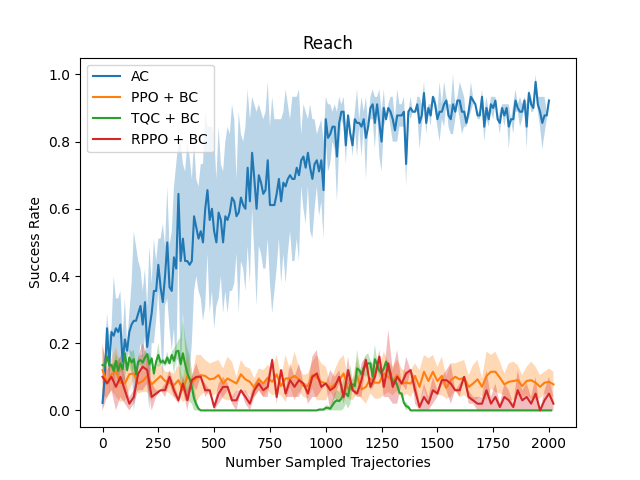
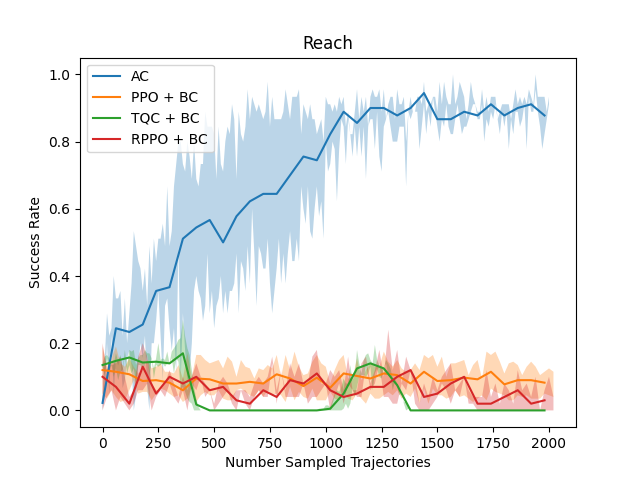
experiments

Changed region(s): [[0.1562, 0.1875, 0.875, 0.875]]

diff --git a/chapters/Experiments.tex b/chapters/Experiments.tex
@@ -104,38 +104,71 @@ is in a state that it has not seen before and acts slightly different to the exp
 different then the training distribution, thus it starts to act unpredictable. As argued in section \ref{COD_AC} this is an advantage of our policy, as it 
 does not break the i.i.d. assumption.
 
-\section{Meta World}
-The Meta World benchmark is a challenging robot simulation benchmark...
+\section{Reinforcement Learning from Sparse Rewads in Single Observation Environments}
+In this section we will explore the perforance of the AC algorithm given sparse rewards from trajectories together with expert demonstrations. We find this to be 
+a plausible setting, as sparse rewards are typically easy to define even in real world applications or sparse reward from human feedback could be used. It is well 
+discussed that reward shaping is tedious and can lead to sub optimal perforance. As an example, imagine an automated production line, where a robot conducts a 
+fast correction step, like cutting away bad parts of food, with high speed, based on an image of the object. A human could easily provide the feedback of wether 
+the object is in the intendet state after the operation. It would be vastly more effort to provide a reward signal for every step along the trajectory and it is 
+not trivial to do so in a way that is helpful for the learning algorithm. Another application are natural language models. Resent efforts have been made to tune 
+models according to humane preferences from a pretrained initialisation. Language models don't get any observations from the environment, as the initial 
+observation is the input from the user and the current environment state is the generated text, which is fully determined by the actions, or words, of the model. 
+In this sense, it is comparable to our setup. We will focus on dense action and observation spaces however and leave further investigation of discrete spaces to future work. 
+In addition to the practical relevance of the setting, an advantage is that the planning part of our algorithm is most efficient in single observation settings. 
+We discussed this in section \ref{sec:AC_Critic}, where we state that while predicting the MDP has a quadratic error bound, we don't get any updated information 
+during the trajectory and thus no better estimate is possible. \\
 
-We want to test two aspects of our algorithm
--fine tuning
--reinforcement learning
+We chose environments from the "Meta-World" \ref{yu2019meta} benchmark, as they have a success indication per environment, from which sparse rewards can be defined naturally. 
+Specifically, we chose five environments from the ML10 suite, namely "Pick and Place", "Push", "Reach", "Window Open" and "Drawer Close", which represent a variaty 
+of tasks and differently levels suited to test different aspects of our algorithm. We defined a constant sequence length of 100 steps per trajectory and provided 
+a reward at the end according to wether the environment was solved at any step along the trajectory. Additionally, the environment 
+only returns the initial observation along the trajectory.\\
 
-RPPO TQC PPO fine tuning, positional encoding, reasons why they were chosen.
-We tested our algorithm on four environments from the Meta-World benchmark with variying complexity. 
+The single observation setup is not well studied in continues spaces, so we have to find baselines that are best suited to challenge the perforance of our algorithm. For sparse rewards, a common 
+algorithm is "HER" as discussed in section \ref{sec:HER}, but it assumes a way to compute the goal from an enviroment state. This is not suitable in our setup, as we don't have access to enviroment 
+states after the first state. Moreover, this assumption limits the generality of the approach, which AC does not need to. \\
+We use PPO, a state of the art on 
+policy algorithm, and TQC, a state of the art off policy algorithm, together with transformer style sequential encoding to indicate the timestep. We also include 
+RPPO, a recurrent implementation of PPO, where we repeatedly input the initial observation and use the hidden states to encode the position along the action sequence. 
 PPO, TQC and RPPO were pretrained unsing behavioural cloning. We chose the best performing policy during behavioural cloning by testing the policy on 50 test 
 trajectories every 400 full cycles through the 
-expert transitions. Technically, these test trajectories were environment interactions, but we chose not to count them to give the best case comparison to the AC algorithm, which was not pretrained. 
+expert transitions. Technically, these test trajectories were environment interactions, but we chose not to count them to give the best case comparison to the AC algorithm, which was not pretrained.\\
+
+For the base implementations we use "Stable Baselines3" \ref{stable-baselines3}, which is a common choice, as it provides well implemted algorithms with tested 
+performance and finetuned hyperparameters for a wide range of environments. This includes our chosen environments, but with dense rewards and continuous observations, 
+thus some hyperparameter tuning was necessary. \\
+
+In the following sections, we will test our algorithm in two different settings, namely fine tunning and guided reinforcement learning. In fine tuning, we provide 
+enough expert demonstrations, that the environment can be solved with acceptable performance, but with room for improvement. In guided reinforcement learning, 
+only one expert demonstration is provided. AC will use the same set of hyperparameters for all experiments to showcase its generality and robustness. Also, we had no choice for time constraints. 
+We will use limited finetuning for the baselines, however. 
+With these experiments, we aim to test both exploitation and exploration of our algorithm and show stable 
+behaviour across a wide range of use cases. \\
+
+In all plots, the first datapoint is sampled from the policy before any enviroment interaction. For the plots with behavioural cloning, it indicates learned perforance from expert trajectories. 
+In plots with no provided expert trajectory, it displays the behaviour following random initialisation.
 
 
 \subsection{Fine Tuning}
 \label{sec:fine_tuning}
 In this section we analyze our algorithm in a fine tuning setup. We provided the algorithms with 4 and 15 expert demonstrations per environment and used a relatively short reinforcement learning phase 
-with 400 sampled trajectory consisting of 100 steps each. One problem we wanted to overcome is "catastrophic 
-forgetting" that can occure, when the data distribution shifts. During the imitation phase, the learners only sees positive examples sampled according to the distribution induced by the expert. 
-In the reinforcement learning phase, the learner samples trajectories according to the actor of the learner, thus the distribution shift. Our algorithm is more robust to this problem, as it 
-decouples the generator distribution, namely the distribution induced by the actor, from the training process, as discussed in section \ref{inference_time_planning}. We present our findings in 
+with 400 sampled trajectory consisting of 100 steps each. We repeated each experiment four times with 30 test trajectories per datapoint. One problem we wanted to overcome is "catastrophic 
+forgetting" that can occure, when the data distribution shifts. During the imitation phase, the learners only see positive examples sampled according to the distribution induced by the expert, which leads 
+to overestimation by the critic. Our algorithm is more robust to this problem, as it 
+decouples the actor from the critic, as discussed in section \ref{inference_time_planning}. We present our findings in 
 figure \ref{fig:finetuning}. For the environments "Pick and Place" and "Push" we show the plots 
 for 15 expert demonstrations, as we found 4 expert demonstrations were not enough to meaningfully learn within 400 training episodes. The environments "Reach" and "Window Open" are easier to learn, 
 so we display the experiments with 4 expert demonstrations each, as giving 15 expert demonstrations lead to near pefect performance from imitation learning alone. All plots for all experiments can 
 be found in Appendix \ref{chapter:additional_plots}. 
-We find, that AC is the only algorithm that can meaningfully improve it's perforance given the limited amount of environment interactions. RPPO is a recurrent algorithm and is the most sensitive to hyper parameter tuning. 
-We expected RPPO to be the least performant from our discussion of the curse of dimensionality in section \ref{COD_AC}. The algorithms guided by GAIL did not improve meaningfully. We assume the limited 
-amount of environment interaction was not proficcient to learn a good discriminator and improve the policies. We tried differnt hyper parameter settings, including fine tuned parameters for the 
-environments but for dense rewards and observations from the [hyper parameter ZOO]. We found that the performance was most relient on the learning rate. Too high values lead to catastrophic forgetting. Some cases can be seen in 
-the appendix \ref{chapter:additional_plots}, where we were not able to find suitable hyper parameters. The values we chose were the highest values before pratically no learning took place, however 
-mostly the performance decreased, anyway.
 
+We expected RPPO to be the least performant from our discussion of the curse of dimensionality in section \ref{COD_AC}. As no current input is provided from the enviroment, RPPO has to keep track of 
+all previous actions. PPO and TQC use positional encoding to indicate the current timestep which makes the problem easier. The algorithms guided by GAIL did not improve meaningfully. We assume the limited 
+amount of environment interaction was not proficcient to learn a good discriminator and improve the policies. We found that the performance of the baselines were most relient on the learning rate. 
+Too high values lead to catastrophic forgetting. The values we chose were the highest possible values before catastrophic forgetting took place. However, the perforance from behavioural cloning, indicated 
+by the first datapoint per plot, was mostly the best achievable perforance. PPO tends to do better then TQC in the single observation setup in genral. We expect this is due to the fact that TQCs 
+strength as an off policy algorithm lies in exploration. In our chosen setup, exploration is specifically hard, given no information from the enviroment during the trajectories.\\  
+We find, that AC is the only algorithm that can meaningfully improve it's perforance given the limited amount of environment interactions. We propose this is due to the fact, that catastrophic forgetting 
+is not a problem with AC, as discussed earlier in this section, which makes it specifically suitable for finetuning.
 
 \begin{figure}[htbp]
     \centering
@@ -168,12 +201,12 @@ mostly the performance decreased, anyway.
 
 \subsection{Guided Reinforcement Learning}
 \label{sec:g_ref_ler}
-In this section, we test the perforance of AC given minimal expert guidance. We use the Reach and Winow Open environments with 2000 training epsiodes per run and three runs per experiment and learner. 
-Per data point we sampled 50 trajectories from the test data set. 
+In this section, we test the perforance of AC given minimal expert guidance. We use the "Reach" and "Winow Open" environments with 2000 training epsiodes per run and three runs per experiment and learner. 
+Per data point we sampled 30 trajectories to evaluate the success rate.\\ 
 With this setting, the algorithms must learn most of the behaviour from reinforcement learning, but the expert 
 demonstration is needed to overcome the initial search problem. We only provide sparse reward and one obervsation per trajectory, thus finding the first viable solution by unguided 
-trial and error is unviable for most problems. We found the "Drawer Close" environment can be learned without any expert guidance. 
-For the baselines, we used RPPO, PPO and TQC with behavioural cloning as pretraining, where expert trajectories are provided. We expect TQC to be better at exploration and PPO to be more stable. The results 
+trial and error is unviable for most problems. However, we found the "Drawer Close" environment can be learned without any expert guidance. 
+For the baselines, we used RPPO, PPO and TQC with behavioural cloning as pretraining, where expert trajectories are provided. The results 
 are shown in figure \ref{fig:guided_ref}. 
 
 \begin{figure}[htbp]
@@ -214,35 +247,32 @@ The AC algorithm was able to solve all environments with high success rates afte
 of behavioural cloning was not improved in the reinforcement phase by any of the baselines. Similar to our discussion in section \ref{sec:fine_tuning}, 
 we had to choose small learning rates to prevent catastrophic forgetting. With higher learning rates, all algorithms dropped to $0 \%$ success rate and did 
 not recover in initial tests. We find from the experiments, that the challenging one observation sparse reward environment is difficult to learn in for 
-traditional actor critic algorithms and that AC is a significant improvement in these setups.\\
+traditional actor critic algorithms. In these setups, AC shows a significant improvement.\\
 
 We wanted to rule out, that the perforance difference comes mainly from our behavioural cloning setup. As PPO and TQC natively don't make use of expert demonstrations, 
 we pretrained them using behavioural cloning. We expected that from the pretraining, at least one successful trajectory would be sampled in the training phase, thus 
 helping to overcome the initial search problem. We find that all algorithms perform significantly above $0 \%$ success rate, so we conclude that all algorithms had 
-access to guidance to correct solutions. To further rule out that our methodology gives an unequal advantage to our algorithm, we tested all algorithms on the 
-"Drawer Close" environment. We found, that random trajectories can already solve the environment, so no expert guidance is needed to learn a feasable behaviour. 
-The results are shown in subplot \ref{fig:drawerclose}. The different perforance at 0 environment interactions comes from different behaviour of the algorithms at 
-the start of the learning phase. TQC samples actions randomly until a threshold is met, in our we set it 100 steps equal to one randomly sampled trajectory. 
-PPO starts sampling actions according to the actor network from the beginning. As we repeat the initial observation $T$ times for the trajectory and only append the 
-positoinal encoding, the observations tend to be close in $L_2$ distance. This might be the reason why we find that PPO produces narrowly distributed action sequences 
-at the beginning of the training, which lead to poor performance. Once the robot arm is driven to an edge, it does not move anywhere else and the probability of 
-closing the drawer is low. We investigated the difference between the initial performance of AC and TQC by repeating the first step of the experiment 20 times and 
-found that both algorithms converge to about $65 \%$ successrate from zero environment interaction in this setup. Like PPO, RPPO does not sample randomly at the 
-beginning. From the plot it can be seen that PPO steadily improves perforance until, further showcasing that it is the most stable algorithm from our baselines. 
-TQC learns rapidly in some sections but seems to overshoot and fall back to bad perforance frequently. We find it to be more dependent on hyper parameters then PPO 
-and RPPO. AC rapidly improved to perfect perforance within about 400 steps. Notably, we used the same set of hyper parameters for AC across all our experiments, 
-which demonstrates the robustness of our approach. \\
+access to guidance to find successful trajectories. To further rule out that our methodology gives an unequal advantage to our algorithm, we tested all algorithms on the 
+"Drawer Close" environment. We found, that random trajectories can already solve the environment with about $20 \%$ success rate, so no expert guidance is needed to learn a feasable behaviour. 
+The results are shown in subfigure \ref{fig:drawerclose}. The difference in perforance at 0 enviroment interactions comes from random initialisation. As we only had time for three runs per 
+experiment, there is some noice in the data. However, all algorithms sample trajectories randomly in the initial training phase. We set the initial random phase to 
+1000 steps or 10 trajectories, so all algorithms had access to some succesful trajectories with high probability. \\
+From the plot it can be seen that PPO steadily improves perforance, which is expected, as on policy algorithms tend to be more stable. 
+TQC learns rapidly in some sections but seems to overshoot and fall back to bad perforance frequently.  
+We find it to be more dependent on hyper parameters then PPO and RPPO. 
+The high variance shown from the baselines in the plot can be explained by the sparse rewards, which provide highly non linear feedback. 
+AC rapidly improved to perfect perforance within about 400 steps. \\
 
-Next we wanted to rule out, that the observed perforance gain of AC over the baselines comes mostly from the different underlying neural network architectures. AC uses transformers for the actor and 
+Next we wanted to rule out, that the observed performance gain of AC over the baselines comes mostly from the different underlying neural network architectures. AC uses transformers for the actor and 
 critic, while the TQC and PPO implementations use MLPs and the RPPO implementation uses a GRU. To do this, we tested the performance of AC using pure imitation learning shown on the bottom row of 
 figure \ref{fig:guided_ref}. We expect the main improvement of behavioural cloning in AC, TQC and PPO over a recurrent policy comes from the sequence encoding, as proposed in section \ref{COD_AC}.
 We find that the pure imitation learning performance 
 of AC is about the same as behavioural cloning for PPO and TQC. While in the Window Open environment, both PPO and TQC outperformed RPPO, we find that in the Reach environment RPPO performs 
-similar to PPO. As only one expert trajectory was provided and we could only repeat the experiment twice out of time constraints, we find the difference between RPPO, PPO and TQC in the Reach 
-environment too small to make conclusion about their relative perforance. \\
+similar to PPO. As only one expert trajectory was provided and we repeated the experiment three times, we find the difference between RPPO, PPO and TQC in the Reach 
+environment too small to make conclusion about their relative perforance, given the variance from the data. \\
 Overall, we take this finding as evidence for the effectiveness of the AC algorithm. It is highly unlikely that the observed improvement 
-over the baselines comes mostly from the transformer architecture underlying the AC actor and critic, given the similar behavioural cloning perforance and the fact that our algorithms trains the actor and 
-critic in a behavioural cloning style.  
+over the baselines comes mostly from the transformer architecture underlying the AC actor and critic, given the similar behavioural cloning perforance. We also find clear imporvement of AC with 
+reinforcement learning over AC with pure imitation learning, which demonstrates the AC algorithm makes effective use from the additinal feedback.  
 
 \subsection{Comparison of Optimisation Modes}
 \label{ref:com_opt_modes}
@@ -282,36 +312,39 @@ subfigure \ref{fig:ac_pl_actions} shows a structured exploration, while subfigur
 \end{figure}
 
 \subsection{Dense Observations}
-In this section we test the relaxation of the AC algorithm to MDP environments with the environment state given as an observation after each step, as developed in section \ref{sec:relax_dense}. 
+In this section we test the relaxation of the AC algorithm to MDP environments, developed in section \ref{sec:relax_dense}, with the environment state given as an observation after each step. \\
 We use sparse rewards 
-and compare "Dense Observation Active Critic" (DOAC) to PPO and TQC on the "Reach", "Window Open" and "Drawer Close" environments. Apart from 
+and compare "Dense Observation Active Critic" (DOAC) to PPO and TQC on the "Reach", "Window Open" and "Drawer Close" environments. Again, we don't use "HER", as it limits the generality of 
+the approach. Apart from 
 providing an observation per time step,
 we use the same setup as discribed in previous sections. The results are shown in figure \ref{fig:dense_ref}. First, we find that both base line algorithms 
 start at similar perforance from behavioural cloning as in the single observation setup, which is expected, since behavioural cloning does not rely on 
 environment interactions. After the first data point, both algorithms sharply drop to near zero perforance, which is worse perforance then for the single 
-observation runs. We explain this with the distribution shift after training starts. As discussed earlier, a policy trained by imitation learning 
-will induce a different distribution then the expert data. This breaks the i.i.d. assumption. In the single observation case for PPO and TQC, the i.i.d. assumption was not broken, 
-as the inputs are only the first observtion which distribution is a constant of the environment. In the MDP setup with dense observations, most input data is 
+observation runs. We explain this with the distribution shift after training starts. Additionally to the overestimation by the critic, as discussed earlier, a policy trained by imitation learning 
+will induce a different distribution of observations then the expert data. This breaks the i.i.d. assumption. In the single observation case for PPO and TQC, this assumption was not broken, 
+as the inputs are the first observtion, which distribution is a constant of the environment. In the MDP setup with enviroment state observations, most input data is 
 sampled according to the current policy and thus the i.i.d. assumption is broken. PPO did not find solutions to the "Reach" and "Window Open" environments, 
 but we find TQC got about $20 \%$ success rate on "Reach" and achieved about $80 \%$ success rate on "Window Open" leveling out after about 2500 episodes. 
 The superior perforance of TQC over PPO is expected, as TQC tends to perfrom better in environments where exploration is important. As TQC now gets 
 feedback from it's actions on the environment, the better exploration is an advantage over PPO.\\ 
 TQCs perforance drops to about $0 \%$ for the "Window Open" 
-environment after the first data point before environment interaction. We wanted to analyze, if TQC uses the guidance from the expert at all, or if it starts from 
+environment after the first data point showing the performance from behavioural cloning. We wanted to analyze, if TQC uses the guidance from the expert at all, or if it starts from 
 no usable knowledge about the environment. To do this, we also conducted the experiment three times with no initial behavioural cloning. The results are shown in 
 subfigure \ref{fig:TQC_0_vs_exp}. We find that TQC can solve the environment within 5000 steps from no expert demonstrations in one case, but does not find a good policy in the other two. 
-We propose that the pretraining from behavioural cloning guides is a useful bias for the algorithm to find feasable solutions quicker with higher probability. Following this insight, 
-we also conducted the "Window Open" experiment in MDP setting with GAIL to make better use of the provided expert demonstration. 
+We propose pretraining from behavioural cloning is a useful bias for the algorithm to find feasable solutions quicker with higher probability. Following this insight, 
+we also conducted the "Window Open" experiment in MDP setting with GAIL to make better use of the provided expert demonstration. We find our initial 
+baseline with pretrained TQC performs best. This is probably due to the fact that GAIL makes no use of the sparse reward. Additionaly, 
+the authos mentioned in the paper, that GAIL is not more efficient in terms of environment interactions then TRPO with rewards. A large number of 
+environment interactions is needed, before the discriminator of GAIL provides useful rewards for the learner. We suppose that is a reason, why GAIL does not perform 
+well in our setting, where relatively small amount of environment interactions are used. \\
 
-###Result from GAIL
-
-However, DOAC is the oly algorithm that can greatly benifit from the expert demonstration and 
-it outperforms all baselines easily. \\
+Overall, DOAC is the only algorithm that can greatly benefit from expert demonstration in the sparse reward setting and 
+it significantly outperforms all baselines including additional tests with GAIL. \\
 
 We also included results for the "Drawer Close" environment with no expert demonstrations. All algorithms perform better then in the single observation environment, 
-but DOAC is the only algorithm with stable perforance, meaning it found a solution with near perfect success rate in all three runs quickly. \\
+but DOAC is the only algorithm with stable perforance. It found a solution with near perfect success rate in all three runs quickly. \\
 Overall, DOAC performs well in all shown environments. Especially in the "Reach" environment it is the only algorithm that finds a feasable solution while it 
-converges much quicker and has a more stable bahaviour in general. 
+converges much quicker and has a more robust bahaviour in general. 
 
 \begin{figure}[htbp]
   \centering
@@ -358,6 +391,7 @@ the relative close perforance of both algorithms. We expect a major advantage of
 observation alone. DOAC already has a method to disambiguate action sequences given the same observations as discussed in section \ref{avr_action_problem}, which is key, if the same initial 
 observations and actions can lead to different observations at later time steps. However out of time constraints, we leave this research question to future work.\\
 Overall we find that DOAC works well in the tested environments and outperforms all baselines in the MDP setting with sparse rewads.
+
 \begin{figure}[htbp]
   \centering
   \begin{subfigure}[t]{0.32\textwidth}

diff --git a/chapters/Methodology.tex b/chapters/Methodology.tex
@@ -250,9 +250,10 @@ to a success, given observations $o$. The new trajectory $a_{c, o}$ found by uns
 be added to the set of trajectories for the critic and to the set of expert trajectories, if it was a success. \\
 With this setup, our algorithm is truly on policy, while beeing able to use all data collected from expert demonstrations and during training time. 
 
-The actor is model free, while the critic is weakly grounded model based, as it learns to predict the dynamics of the MDP. In this sense, it is close to MuZero, 
+The actor is model free, while the critic is weakly grounded model based, as it learns to predict the reward dynamics of the MDP. In this sense, it is close to MuZero, 
 but our architecture enables search on continuous action space, which is not possible in MuZero. 
-"Monte-Carlo Tree Search in Continuous Action Spaces with Value Gradients" does search on continues action space, but requires the knowledge of the transition model. 
+"Monte-Carlo Tree Search in Continuous Action Spaces with Value Gradients" as introduces in section \ref{sec:mctsca} does search on continues action space, 
+but requires the knowledge of the transition model. 
 To the authors knowledge, active critic is the only search based algorithm on a continuous action space with no prior access to the transition model.
 
 \subsection{Average Actions Problem}

diff --git a/chapters/Related_Work.tex b/chapters/Related_Work.tex
@@ -7,6 +7,7 @@ reward of wether the task was successfully solved. While to the authors knowledg
 in this chapter we will cover approaches that aim to solve aspects of the given setup.
 
 \section{Sparse Reward}
+\label{sec:HER}
 Learning with sparse rewards is challenging in a high dimensional action and observation space, as nearly all trajectories will have reward 0. 
 Until by chance a succesful trajectory is found, the agent has to blindly guess. To overcome this problem, Marcin Andrychowicz et. al propose 
 "Hindsight Experience Replay".
@@ -159,6 +160,7 @@ be to a higher order value equvialent model.\\
 While MuZero achieves SOTA performance on the challenging ATARI 57 benchmark, it requires discrete actions for the MCTS based algorithm.
 
 \subsection{Monte-Carlo Tree Search in Continuous Action Spaces with Value Gradients}
+\label{sec:mctsca}
 A possible way to relax the requirement of a finite action space of the MuZero algorithm is presented in 
 "Monte-Carlo Tree Search in Continuous Action Spaces with Value Gradients" from Jongmin Lee et. al \cite{Lee_Jeon_Kim_Kim_2020}. The main idea is to seperate 
 the MCTS into two phases, a coarse phase, where actions from the action space are coarsly sampled and a fine tuning phase, where the actions are tuned. 
